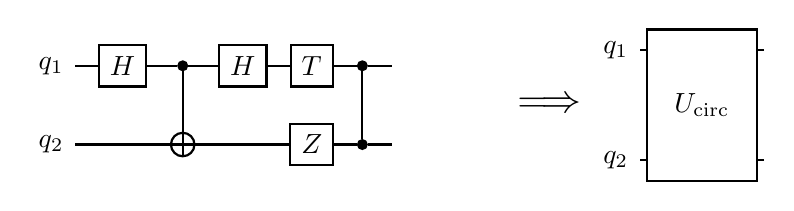
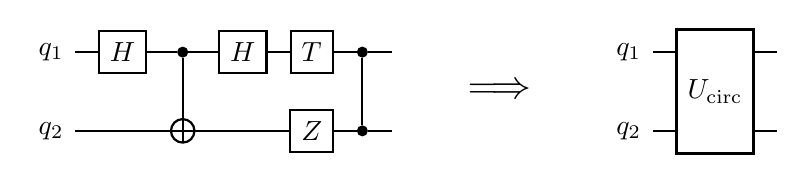
docs(readme): equalize gaps around the => via TikZ relative positioning
Use `right=of` with a fixed `node distance=0.6cm` so the gap circuit→arrow
matches the gap arrow→U_circ by construction, instead of by manual coords.

Reverts the square-forcing minimum-size override on the gate — the gate's
natural quantikz aspect was fine; the only tweak that mattered was the gap.

Changed region(s): [[0.0302, 0.1639, 0.5139, 0.847], [0.7557, 0.1093, 0.9673, 0.8743], [0.5743, 0.4372, 0.7254, 0.5464]]

diff --git a/docs/src/assets/circuit_to_pulse.tex b/docs/src/assets/circuit_to_pulse.tex
@@ -1,29 +1,28 @@
 \documentclass[border=4pt]{standalone}
 \usepackage{tikz}
-\usetikzlibrary{quantikz, calc, arrows.meta}
+\usetikzlibrary{quantikz, calc, arrows.meta, positioning}
 \usepackage{quantikz}
 
 \begin{document}
-\begin{tikzpicture}
+% Use `right=of` relative positioning with a fixed `node distance` so the
+% gap circuit→arrow equals the gap arrow→gate by construction.
+\begin{tikzpicture}[node distance=0.6cm]
 
 % LEFT: the circuit
-\node[anchor=center] (left) at (0, 0) {%
+\node (left) {%
 \begin{quantikz}[row sep={1.0cm,between origins}, column sep=0.30cm]
 \lstick{$q_1$} & \gate{H} & \ctrl{1} & \gate{H} & \gate{T} & \ctrl{1} & \qw \\
 \lstick{$q_2$} & \qw      & \targ{}  & \qw      & \gate{Z} & \ctrl{-1}& \qw
 \end{quantikz}
 };
 
-% ARROW
-\node[anchor=center, font=\Large\sffamily\bfseries] (arrow) at (4.3, 0) {$\Longrightarrow$};
+% ARROW: positioned a fixed distance to the right of the circuit.
+\node[right=of left, font=\Large\sffamily\bfseries] (arrow) {$\Longrightarrow$};
 
-% RIGHT: a single 2-qubit block U_\text{circ} via quantikz, with explicit
-% minimum width/height on the gate so the rendered box is actually square.
-\node[anchor=center] (right) at (5.95, 0) {%
-\begin{quantikz}[row sep={1.4cm,between origins}, column sep=0.30cm]
-\lstick{$q_1$} & \gate[2, disable auto height,
-                     style={minimum width=1.4cm, minimum height=1.4cm}
-                  ]{U_\text{circ}} & \qw \\
+% RIGHT: a single 2-qubit block U_\text{circ}, same fixed distance from the arrow.
+\node[right=of arrow] (right) {%
+\begin{quantikz}[row sep={1.0cm,between origins}, column sep=0.30cm]
+\lstick{$q_1$} & \gate[2]{U_\text{circ}} & \qw \\
 \lstick{$q_2$} &                          & \qw
 \end{quantikz}
 };
